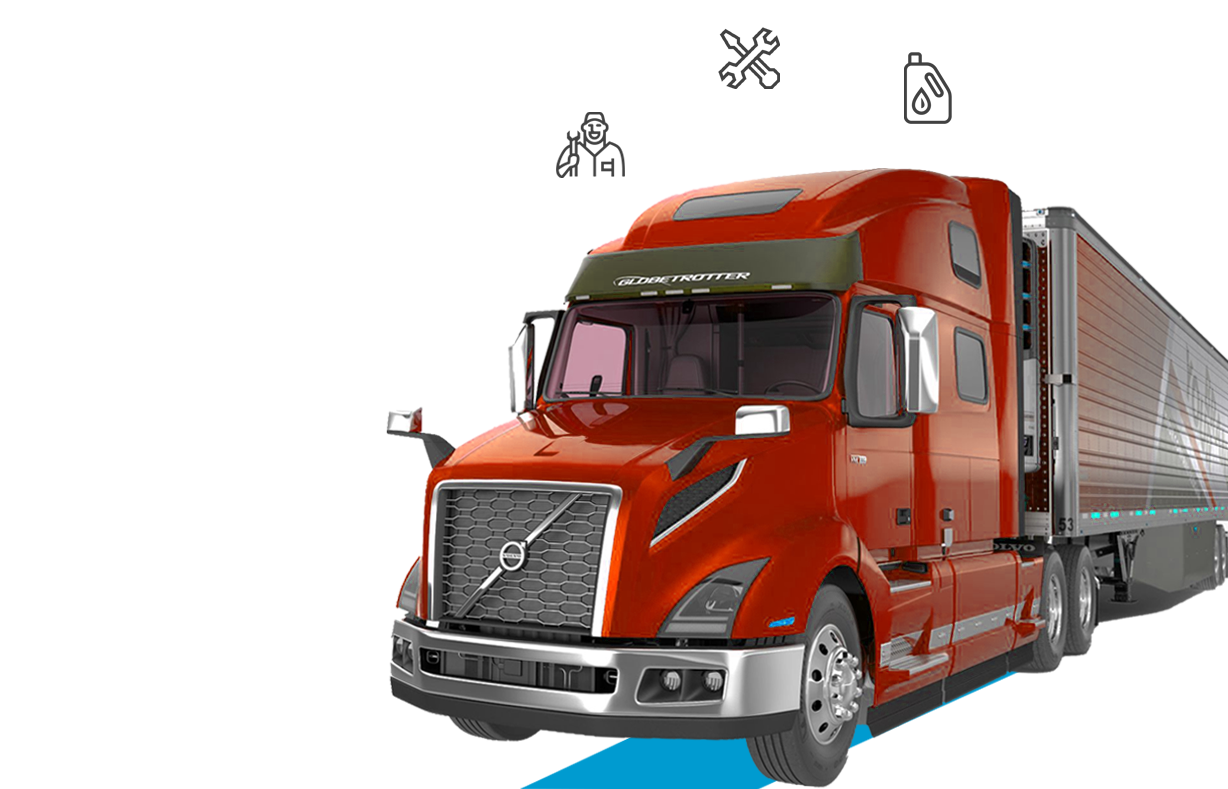
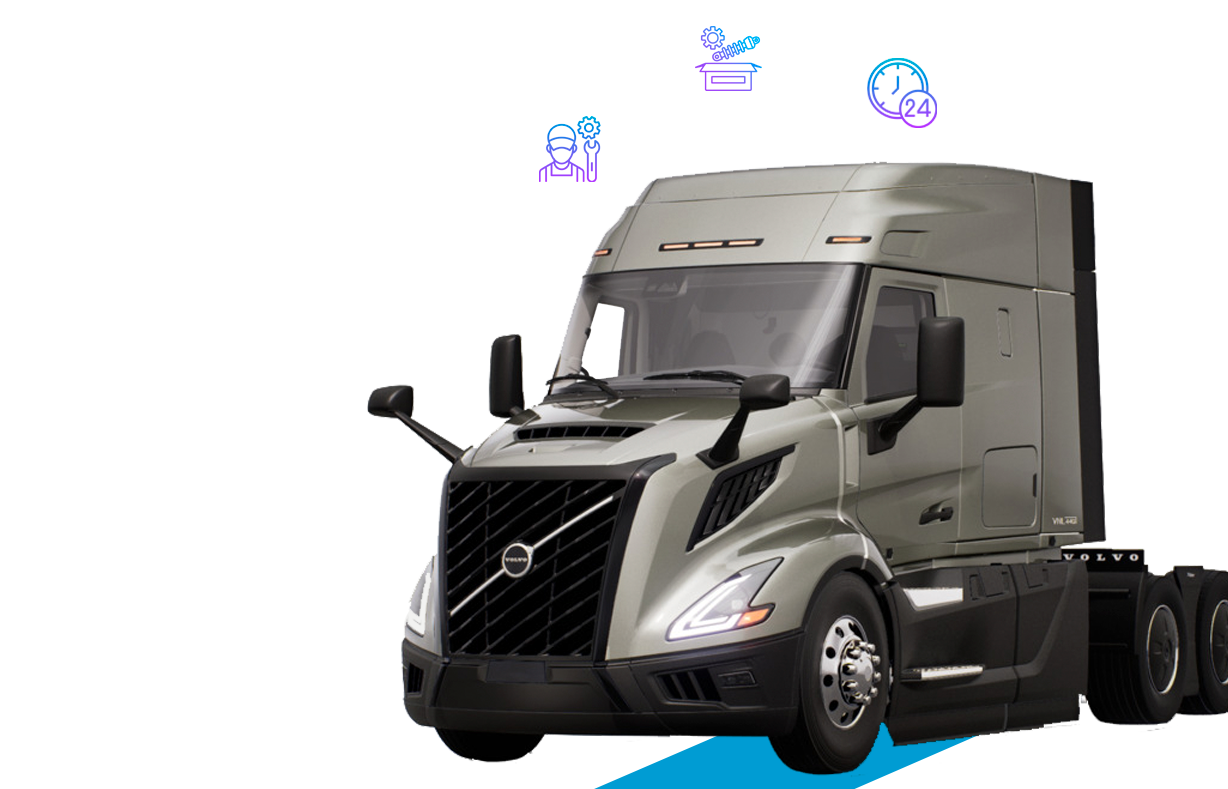
update file

diff --git a/index.html b/index.html
@@ -84,7 +84,7 @@ crossorigin="anonymous" referrerpolicy="no-referrer">
         <div class="home-banner-section overflow-hidden">
             <div class="banner-img-outer">
                 <figure class="banner-img mb-0 wow slideInRight left_icon aos-init aos-animate" data-aos="fade-right">
-                    <img class="img-fluid banner-img-width" src="img/banner-tmatab-img_2.png" alt="" >
+                    <img class="img-fluid banner-img-width" src="img/banner-tmatab-img.png" alt="" >
                  </figure>
             </div>
 

diff --git a/css/mobile.css b/css/mobile.css
@@ -2439,8 +2439,9 @@ h2 {
   font-size: 18px;
   line-height: 20px;
 }
-.our-services-section .autorix-text:before {
-  left: -162px;
+  .our-services-section .autorix-text:before 
+  {
+    left: -162px;
 }
   /* our-mission */
   .mission-section 
